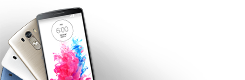
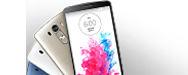
Updating overview

diff --git a/overview.html b/overview.html
@@ -62,8 +62,8 @@
                             <a href="#">
                                 <img src="static/images/content/g4-icon.png"/>
                                 <div class="slider-nav-desc">
-                                    <h3>LG G4</h3>
-                                    <p>Limited-time offer when you order now.</p>
+                                    <h3>LG G3</h3>
+                                    <p>Brains and beauty, yet simple to use.</p>
                                 </div>
                             </a>
                         </li>
@@ -71,8 +71,8 @@
                             <a href="#">
                                 <img src="static/images/content/g4-icon.png"/>
                                 <div class="slider-nav-desc">
-                                    <h3>LG G4</h3>
-                                    <p>Limited-time offer when you order now.</p>
+                                    <h3>GPad X8.3</h3>
+                                    <p>Powerfull performance meets mobility.</p>
                                 </div>
                             </a>
                         </li>
@@ -80,8 +80,8 @@
                             <a href="#">
                                 <img src="static/images/content/g4-icon.png"/>
                                 <div class="slider-nav-desc">
-                                    <h3>LG G4</h3>
-                                    <p>Limited-time offer when you order now.</p>
+                                    <h3>LG Watch Urbane</h3>
+                                    <p>The latest in smart technology.</p>
                                 </div>
                             </a>
                         </li>
